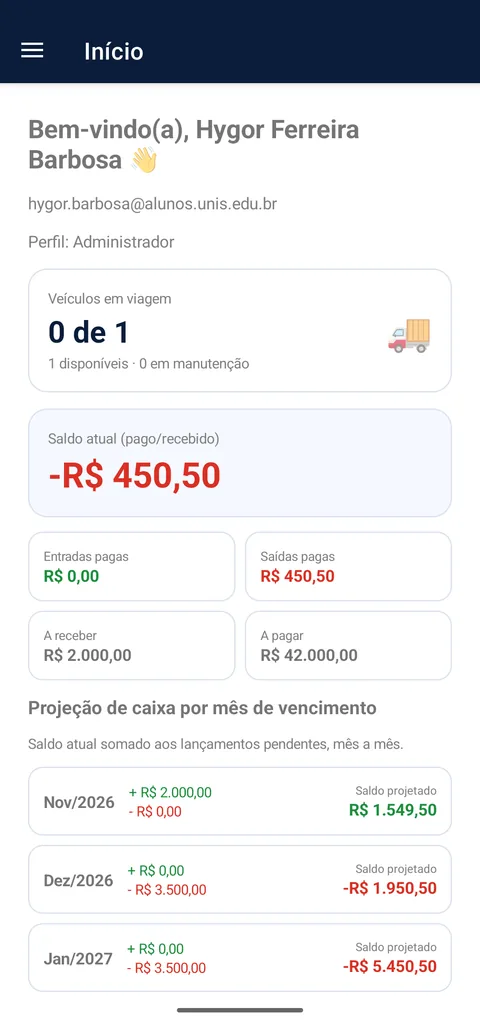
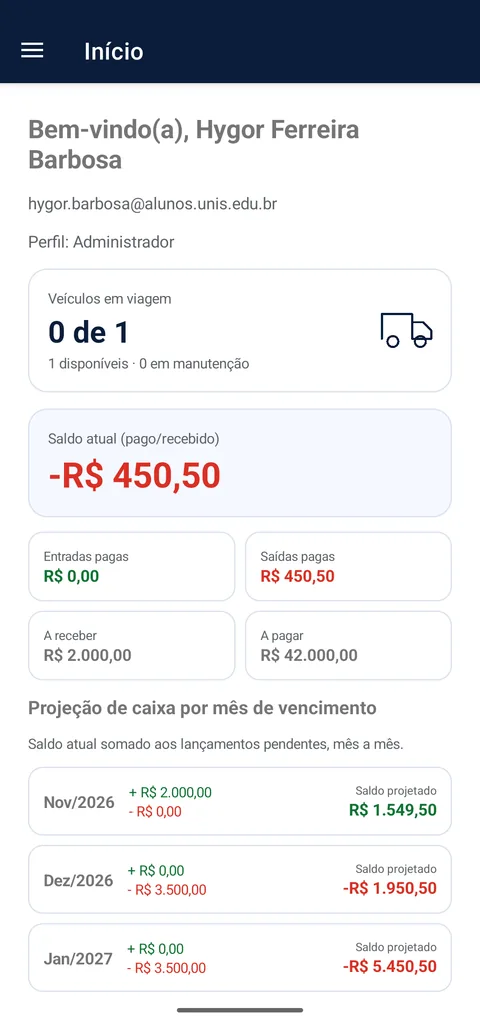
fix(app): tira os emojis do app, da ajuda e do manual
- Início: "Bem-vindo(a), {nome}" sem o 👋; o 🚚 do cartão "Veículos em
  viagem" virou o caminhão desenhado em vetor (o mesmo ícone do site).
- Nova movimentação: botões "Câmera" e "Galeria" sem 📷 e 🖼.
- Central de Ajuda e manual: sem os emojis dos botões; ✔ trocado por ✓
  nas tabelas de perfis (o ✔ vira emoji colorido em alguns aparelhos).
- Telas refeitas sem emoji (Início, formulário, câmera bloqueada) e o
  comprovante de exemplo trocado: no lugar da imagem de teste da câmera
  do emulador, um recibo de exemplo escolhido pela Galeria.

Conferido no emulador (Release, build limpo): Início, formulário,
seletor de fotos do Android escolhendo o recibo e aviso de câmera
bloqueada. Nenhum emoji restante em App, Web, API e docs/entrega.

Claude-Session: https://claude.ai/code/session_01VgW1r5VSRUvntRRnvnhaqV

Changed region(s): [[0.7812, 0.2812, 0.9062, 0.3438], [0.2812, 0.125, 0.3438, 0.1875]]

diff --git a/GestaoFrota.Web/ajuda.html b/GestaoFrota.Web/ajuda.html
@@ -94,15 +94,15 @@
         <table>
           <thead><tr><th>Tela</th><th>Administrador</th><th>Gestor de Frota</th><th>Financeiro</th><th>Motorista</th></tr></thead>
           <tbody>
-            <tr><td>Início</td><td>✔</td><td>✔</td><td>✔</td><td>✔</td></tr>
-            <tr><td>Viagens</td><td>✔</td><td>✔</td><td>—</td><td>✔ só as suas</td></tr>
-            <tr><td>Frota</td><td>✔</td><td>✔ sem desativar</td><td>—</td><td>✔ só consulta</td></tr>
-            <tr><td>Rotas</td><td>✔</td><td>✔ sem desativar</td><td>—</td><td>—</td></tr>
-            <tr><td>Movimentações</td><td>✔</td><td>✔ só consulta</td><td>✔</td><td>—</td></tr>
-            <tr><td>Dívidas e Financiamentos</td><td>✔</td><td>✔ só consulta</td><td>✔</td><td>—</td></tr>
-            <tr><td>Relatórios</td><td>✔</td><td>✔</td><td>✔</td><td>—</td></tr>
-            <tr><td>Categorias e Formas de Pagamento</td><td>✔</td><td>✔ só consulta</td><td>✔ sem desativar</td><td>—</td></tr>
-            <tr><td>Usuários</td><td>✔</td><td>—</td><td>—</td><td>—</td></tr>
+            <tr><td>Início</td><td>✓</td><td>✓</td><td>✓</td><td>✓</td></tr>
+            <tr><td>Viagens</td><td>✓</td><td>✓</td><td>—</td><td>✓ só as suas</td></tr>
+            <tr><td>Frota</td><td>✓</td><td>✓ sem desativar</td><td>—</td><td>✓ só consulta</td></tr>
+            <tr><td>Rotas</td><td>✓</td><td>✓ sem desativar</td><td>—</td><td>—</td></tr>
+            <tr><td>Movimentações</td><td>✓</td><td>✓ só consulta</td><td>✓</td><td>—</td></tr>
+            <tr><td>Dívidas e Financiamentos</td><td>✓</td><td>✓ só consulta</td><td>✓</td><td>—</td></tr>
+            <tr><td>Relatórios</td><td>✓</td><td>✓</td><td>✓</td><td>—</td></tr>
+            <tr><td>Categorias e Formas de Pagamento</td><td>✓</td><td>✓ só consulta</td><td>✓ sem desativar</td><td>—</td></tr>
+            <tr><td>Usuários</td><td>✓</td><td>—</td><td>—</td><td>—</td></tr>
           </tbody>
         </table>
         </div>
@@ -144,15 +144,15 @@
           <li>Toque em <strong>Salvar movimentação</strong>.</li>
         </ol>
         <h3>Anexar o comprovante</h3>
-        <p>Em <strong>Comprovante (opcional)</strong>: <strong>📷 Câmera</strong> tira a foto na hora; <strong>🖼 Galeria</strong> escolhe uma foto do celular. Até 5 MB. Para ver depois, toque em <strong>Comprovante</strong> na lista.</p>
+        <p>Em <strong>Comprovante (opcional)</strong>: <strong>Câmera</strong> tira a foto na hora; <strong>Galeria</strong> escolhe uma foto do celular. Até 5 MB. Para ver depois, toque em <strong>Comprovante</strong> na lista.</p>
         <p>Na primeira vez o celular pede permissão para a câmera. Se você negar, a <strong>Galeria</strong> continua funcionando; se bloquear de vez, o app oferece <strong>Abrir configurações</strong> para liberar.</p>
         <h3>Marcar como pago e estornar</h3>
         <p><strong>Marcar como pago</strong> faz o lançamento entrar no saldo. <strong>Estornar</strong> cancela um lançamento feito por engano sem apagá-lo: ele continua no histórico, mas sai do saldo, da projeção e dos relatórios.</p>
         <p>Use os filtros no alto da lista para achar um lançamento.</p>
       </div>
       <div class="figuras-lado">
-        <figure><img src="ajuda/img/movimentacao-formulario.webp" alt="Formulário de nova movimentação preenchido" loading="lazy" width="480" height="1024"><figcaption>Nova movimentação</figcaption></figure>
-        <figure><img src="ajuda/img/comprovante-anexado.webp" alt="Comprovante fotografado aparecendo no formulário" loading="lazy" width="480" height="1024"><figcaption>Comprovante anexado</figcaption></figure>
+        <figure><img src="ajuda/img/movimentacao-formulario.webp" alt="Formulário de nova movimentação com os botões Câmera e Galeria" loading="lazy" width="480" height="1024"><figcaption>Nova movimentação</figcaption></figure>
+        <figure><img src="ajuda/img/comprovante-anexado.webp" alt="Recibo escolhido na galeria aparecendo como comprovante" loading="lazy" width="480" height="1024"><figcaption>Comprovante anexado</figcaption></figure>
         <figure><img src="ajuda/img/movimentacoes-lista.webp" alt="Lista de movimentações com os botões Marcar como pago e Estornar" loading="lazy" width="480" height="1024"><figcaption>Lista com as ações</figcaption></figure>
         <figure><img src="ajuda/img/camera-bloqueada.webp" alt="Aviso de câmera bloqueada com o botão Abrir configurações" loading="lazy" width="480" height="1024"><figcaption>Câmera bloqueada</figcaption></figure>
       </div>

diff --git a/GestaoFrota.App/Views/DashboardPage.xaml b/GestaoFrota.App/Views/DashboardPage.xaml
@@ -11,7 +11,7 @@
         <ScrollView>
             <VerticalStackLayout Padding="24" Spacing="14">
 
-                <Label Text="{Binding Usuario.Nome, StringFormat='Bem-vindo(a), {0} 👋'}"
+                <Label Text="{Binding Usuario.Nome, StringFormat='Bem-vindo(a), {0}'}"
                        FontSize="22"
                        FontAttributes="Bold" />
 
@@ -27,7 +27,18 @@
                             <Label Text="{Binding VeiculosEmViagemTexto}" FontSize="26" FontAttributes="Bold" TextColor="#0B1D3A" />
                             <Label Text="{Binding VeiculosDetalheTexto}" FontSize="12" TextColor="#5F6368" />
                         </VerticalStackLayout>
-                        <Label Grid.Column="1" Text="🚚" FontSize="32" VerticalOptions="Center" />
+                        <!-- Caminhão desenhado em vetor (o mesmo ícone do site), no lugar do emoji. -->
+                        <Path Grid.Column="1"
+                              Data="M3,16 L3,7 L14,7 L14,16 M14,10 L18,10 L21,13 L21,16 L14,16 M5,17 A2,2 0 1 0 9,17 A2,2 0 1 0 5,17 M15,17 A2,2 0 1 0 19,17 A2,2 0 1 0 15,17"
+                              Stroke="#0B1D3A"
+                              StrokeThickness="1.8"
+                              StrokeLineJoin="Round"
+                              StrokeLineCap="Round"
+                              Aspect="Uniform"
+                              WidthRequest="44"
+                              HeightRequest="44"
+                              VerticalOptions="Center"
+                              SemanticProperties.Description="Caminhão" />
                     </Grid>
                 </Frame>
 

diff --git a/GestaoFrota.App/Views/MovimentacaoFormPage.xaml b/GestaoFrota.App/Views/MovimentacaoFormPage.xaml
@@ -77,12 +77,12 @@
             <Label Text="Comprovante (opcional)" FontSize="12" TextColor="#5F6368" />
             <Grid ColumnDefinitions="*, *" ColumnSpacing="8">
                 <Button Grid.Column="0"
-                        Text="📷 Câmera"
+                        Text="Câmera"
                         Command="{Binding TirarFotoCommand}"
                         BackgroundColor="#2C6CE0"
                         TextColor="White" />
                 <Button Grid.Column="1"
-                        Text="🖼 Galeria"
+                        Text="Galeria"
                         Command="{Binding EscolherGaleriaCommand}"
                         BackgroundColor="#2C6CE0"
                         TextColor="White" />

diff --git a/docs/entrega/manual-do-usuario.md b/docs/entrega/manual-do-usuario.md
@@ -48,16 +48,16 @@ do menu.
 
 | Tela do menu | Administrador | Gestor de Frota | Financeiro | Motorista |
 |---|:---:|:---:|:---:|:---:|
-| Início | ✔ | ✔ | ✔ | ✔ |
-| Viagens | ✔ | ✔ | — | ✔ (só as suas) |
-| Frota | ✔ | ✔ | — | ✔ (só consulta) |
-| Rotas | ✔ | ✔ | — | — |
-| Movimentações | ✔ | ✔ (só consulta) | ✔ | — |
-| Dívidas e Financiamentos | ✔ | ✔ (só consulta) | ✔ | — |
-| Relatórios | ✔ | ✔ | ✔ | — |
-| Categorias | ✔ | ✔ (só consulta) | ✔ | — |
-| Formas de Pagamento | ✔ | ✔ (só consulta) | ✔ | — |
-| Usuários | ✔ | — | — | — |
+| Início | ✓ | ✓ | ✓ | ✓ |
+| Viagens | ✓ | ✓ | — | ✓ (só as suas) |
+| Frota | ✓ | ✓ | — | ✓ (só consulta) |
+| Rotas | ✓ | ✓ | — | — |
+| Movimentações | ✓ | ✓ (só consulta) | ✓ | — |
+| Dívidas e Financiamentos | ✓ | ✓ (só consulta) | ✓ | — |
+| Relatórios | ✓ | ✓ | ✓ | — |
+| Categorias | ✓ | ✓ (só consulta) | ✓ | — |
+| Formas de Pagamento | ✓ | ✓ (só consulta) | ✓ | — |
+| Usuários | ✓ | — | — | — |
 
 O **Motorista** abre o aplicativo direto na tela **Viagens**.
 
@@ -100,8 +100,8 @@ O valor precisa ser maior que zero.
 
 Na mesma tela, em **Comprovante (opcional)**:
 
-- **📷 Câmera** tira a foto na hora;
-- **🖼 Galeria** escolhe uma foto que já está no celular.
+- **Câmera** tira a foto na hora;
+- **Galeria** escolhe uma foto que já está no celular.
 
 A foto pode ter até 5 MB. Para ver depois, toque em **Comprovante** no lançamento, na lista.
 
